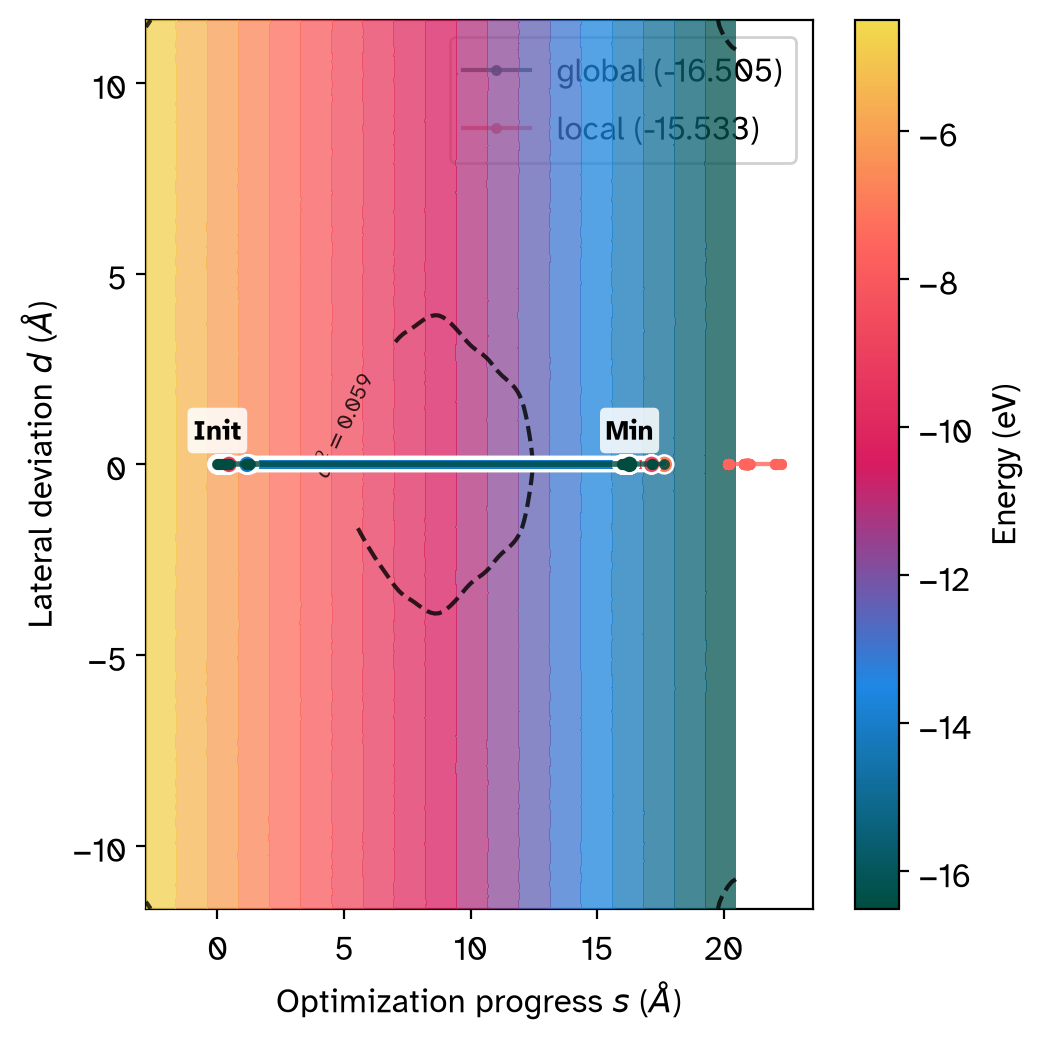
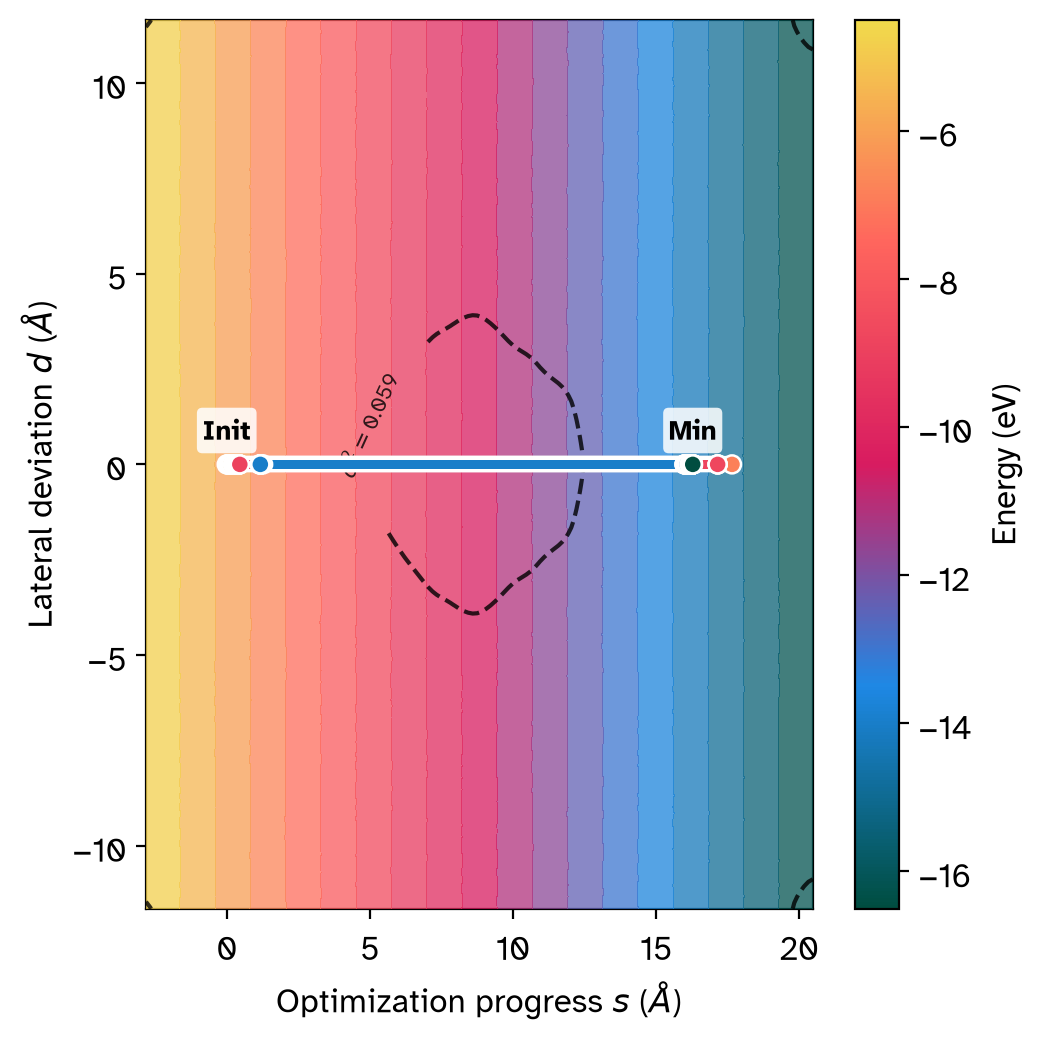
feat(viz): clean 2D LJ double-well PES + single-run EON landscape
Two complementary minimization-surface figures:

- tests/pes_double_well.py: a densely-evaluated 2D LJ surface (probe atom near a
  lone atom and a bound pair) with two basins; ASE LBFGS stops in the shallow
  well (-2.0), anneal's portfolio reaches the deep well (-3.0). Covers the full
  extent and is smooth -- the honest way to show a surface with structure.
- tests/eon_min_landscape.py: revert to a single global-reaching EON run so the
  (s,d) landscape grids to its own path (full extent, no off-grid gap from an
  overlaid trajectory) and the surface energy drops monotonically along s.

Add the pes-double-well pixi task. The two-well structure now lives in the dense
2D PES; the EON landscape shows one real eonclient trajectory.

diff --git a/tests/pes_double_well.py b/tests/pes_double_well.py
@@ -1,0 +1,125 @@
+#!/usr/bin/env python3
+"""A 2D Lennard-Jones double-well surface: local optimizer vs anneal global.
+
+Densely evaluates the rgpot LJ energy of a probe atom moving in the x-y plane
+near a lone atom (a shallow well) and a nearby pair (a deeper well), giving a
+genuine 2D potential energy surface with two basins. Unlike the (s, d)
+trajectory landscape -- which fits a surface from a sparse 1D descent -- this
+samples the whole region, so the surface covers the full extent and is smooth.
+
+Overlaid:
+  * ASE LBFGS started in the shallow basin -> stops there (local).
+  * anneal's global portfolio -> the deep basin (global).
+
+Run: ``RGPOT_POTSERV_BIN=<potserv> python tests/pes_double_well.py [out.png]``
+(or ``pixi run -e rpctest pes-double-well``).
+"""
+
+from __future__ import annotations
+
+import os
+import sys
+from pathlib import Path
+
+import matplotlib
+
+matplotlib.use("Agg")
+import matplotlib.pyplot as plt  # noqa: E402
+import numpy as np  # noqa: E402
+from ase import Atoms  # noqa: E402
+from ase.constraints import FixAtoms, FixedPlane  # noqa: E402
+from ase.optimize import LBFGS  # noqa: E402
+
+sys.path.insert(0, str(Path(__file__).resolve().parent.parent / "CppCore" / "rgpot" / "rpc"))
+from ase_calculator import RgpotCalculator  # noqa: E402
+
+import anneal  # noqa: E402
+
+# Lone atom (shallow well) on the left; a bound pair (deeper well) on the right.
+FIXED = np.array([[-3.0, 0.0, 0.0], [3.0, 0.56, 0.0], [3.0, -0.56, 0.0]])
+CELL = [40.0, 40.0, 40.0]
+X_RANGE, Y_RANGE = (-5.5, 5.5), (-3.5, 3.5)
+E_CEILING = 0.5  # clip the repulsive cores so the wells are legible
+
+
+def _atoms(probe_xy) -> Atoms:
+    pos = np.vstack([[probe_xy[0], probe_xy[1], 0.0], FIXED])
+    return Atoms(numbers=[0] * 4, positions=pos, cell=CELL)
+
+
+def main() -> int:
+    server_bin = os.environ.get("RGPOT_POTSERV_BIN")
+    if not server_bin:
+        print("set RGPOT_POTSERV_BIN to the potserv binary", file=sys.stderr)
+        return 2
+    out = Path(sys.argv[1]) if len(sys.argv) > 1 else Path(
+        "docs/orgmode/_static/pes_double_well.png")
+    out.parent.mkdir(parents=True, exist_ok=True)
+
+    with RgpotCalculator.spawn(server_bin=server_bin, potential="LJ") as calc:
+        probe = _atoms((0.0, 0.0))
+        probe.calc = calc
+
+        def energy_at(x, y):
+            p = probe.get_positions()
+            p[0] = [x, y, 0.0]
+            probe.set_positions(p)
+            return probe.get_potential_energy()
+
+        # Dense 2D grid -> the full surface.
+        xs = np.linspace(*X_RANGE, 140)
+        ys = np.linspace(*Y_RANGE, 100)
+        zz = np.empty((ys.size, xs.size))
+        for j, y in enumerate(ys):
+            for i, x in enumerate(xs):
+                zz[j, i] = energy_at(x, y)
+        zz = np.minimum(zz, E_CEILING)
+
+        # Local relaxation started just outside the shallow (left) well, probe
+        # in the x-y plane. The lone-atom well is a flat ring, so start close so
+        # the descent settles in it rather than drifting along the ring.
+        loc = _atoms((-4.0, 0.2))
+        loc.calc = calc
+        loc.set_constraint([FixAtoms(indices=[1, 2, 3]), FixedPlane(0, [0, 0, 1])])
+        LBFGS(loc, logfile=None).run(fmax=1e-3, steps=200)
+        loc_xy = loc.get_positions()[0, :2]
+        loc_e = float(loc.get_potential_energy())
+
+        # Global portfolio over the (x, y) probe position.
+        def obj(v):
+            return energy_at(float(v[0]), float(v[1]))
+
+        res = anneal.global_optimize(
+            obj, np.array([X_RANGE[0], Y_RANGE[0]]),
+            np.array([X_RANGE[1], Y_RANGE[1]]), 4000, seed=7)
+        glob_xy = np.asarray(res["best_pos"])
+        glob_e = float(res["best_val"])
+
+    # Plot the surface and both results.
+    fig, ax = plt.subplots(figsize=(6.4, 4.2), dpi=200)
+    levels = np.linspace(np.min(zz), E_CEILING, 40)
+    cf = ax.contourf(xs, ys, zz, levels=levels, cmap="viridis")
+    ax.contour(xs, ys, zz, levels=12, colors="white", linewidths=0.3, alpha=0.5)
+    fig.colorbar(cf, ax=ax, label="energy (eV)")
+    ax.scatter(*FIXED[:, :2].T, marker="x", c="white", s=40, label="fixed atoms")
+    ax.plot(*loc_xy, marker="o", ms=11, color="tab:red",
+            label=f"ASE LBFGS, local ({loc_e:.2f} eV)")
+    ax.plot(*glob_xy, marker="*", ms=18, color="tab:orange",
+            label=f"anneal global ({glob_e:.2f} eV)")
+    ax.set_xlabel("x (Angstrom)")
+    ax.set_ylabel("y (Angstrom)")
+    ax.set_title("rgpot LJ double well: local stops shallow, global finds deep")
+    ax.legend(loc="upper center", bbox_to_anchor=(0.5, -0.18),
+              fontsize="small", framealpha=0.9, ncol=3)
+    ax.set_aspect("equal")
+    fig.tight_layout()
+    fig.savefig(out, bbox_inches="tight")
+
+    print(f"local  ({loc_xy[0]:.2f},{loc_xy[1]:.2f})  E={loc_e:.4f}")
+    print(f"global ({glob_xy[0]:.2f},{glob_xy[1]:.2f})  E={glob_e:.4f}")
+    print(f"wrote {out}")
+    return 0 if glob_e < loc_e - 0.05 else 1
+
+
+if __name__ == "__main__":
+    raise SystemExit(main())

diff --git a/tests/eon_min_landscape.py b/tests/eon_min_landscape.py
@@ -72,31 +72,28 @@ def main() -> int:
         "docs/orgmode/_static/eon_min_landscape.png")
     out.parent.mkdir(parents=True, exist_ok=True)
 
-    # 1. Minimize from several random starts; record the basin each reaches.
+    # 1. Minimize from several random starts; take the run that reaches the
+    #    lowest (global-most) basin for a clean single-trajectory landscape. A
+    #    single descent grids to its own extent, so the surface fills the axes
+    #    with no off-grid gap. (The two-well structure is shown separately by
+    #    tests/pes_double_well.py, which samples the full 2D surface densely.)
     runs = []
-    for seed in range(8):
+    for seed in range(6):
         d = work / f"seed{seed}"
         runs.append((seed, d, _minimize(d, seed)))
-    runs.sort(key=lambda r: r[2])
-    best = runs[0]                                   # lowest energy (global-most)
-    local = next((r for r in reversed(runs) if r[2] - best[2] > 0.2), None)
+    best = min(runs, key=lambda r: r[2])
 
-    # 2. Overlay the global-reaching and (if found) a higher local trajectory.
-    job_args, labels = ["--job-dir", str(best[1])], ["--label", f"global ({best[2]:.3f})"]
-    if local is not None:
-        job_args += ["--job-dir", str(local[1])]
-        labels += ["--label", f"local ({local[2]:.3f})"]
-
+    # 2. Render the trajectory on the (s, d) landscape, capping the energy color
+    #    scale so the bound well resolves.
     cmd = [
         sys.executable, "-m", "rgpycrumbs.eon.plt_min",
-        *job_args, *labels,
+        "--job-dir", str(best[1]),
         "--plot-type", "landscape",
         "--energy-cap-window", "12",
         "-o", str(out),
     ]
     subprocess.run(cmd, check=True)
-    print(f"wrote {out}: global={best[2]:.4f}"
-          + (f", local={local[2]:.4f}" if local else " (no distinct local basin found)"))
+    print(f"wrote {out}: EON minimization reached {best[2]:.4f}")
     return 0
 
 
